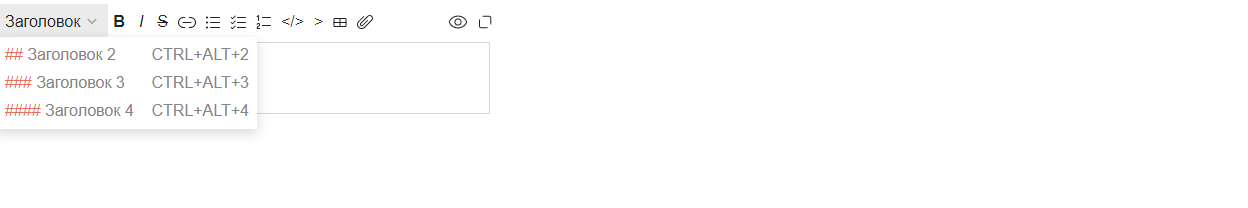
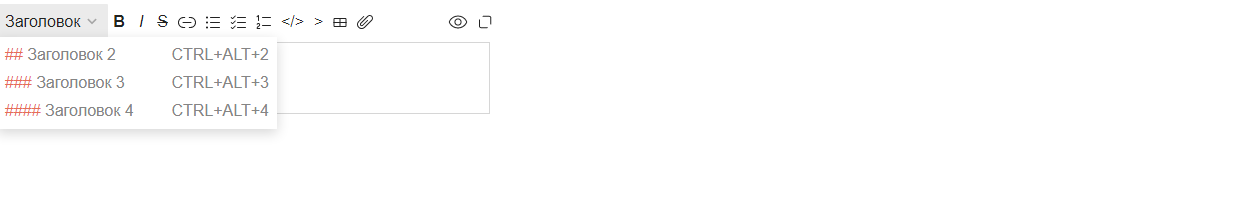
Change dropdown width

Changed region(s): [[0.125, 0.3462, 0.2188, 0.4327], [0.125, 0.4904, 0.2188, 0.5769], [0.125, 0.2308, 0.2188, 0.2885]]

diff --git a/src/Markdown/MarkdownActions.tsx b/src/Markdown/MarkdownActions.tsx
@@ -55,7 +55,7 @@ export const MarkdownActions: FC<Props> = ({
       <ButtonsWrapper>
         <ActionsWrapper>
           <MarkdownDropdown>
-            <Dropdown disablePortal disabled={isPreviewMode} menuWidth={260} caption="Заголовок">
+            <Dropdown disablePortal disabled={isPreviewMode} menuWidth={280} caption="Заголовок">
               {markdownHelpHeaders.map((helper, idx) => (
                 <MarkdownMenuItem
                   key={idx}
